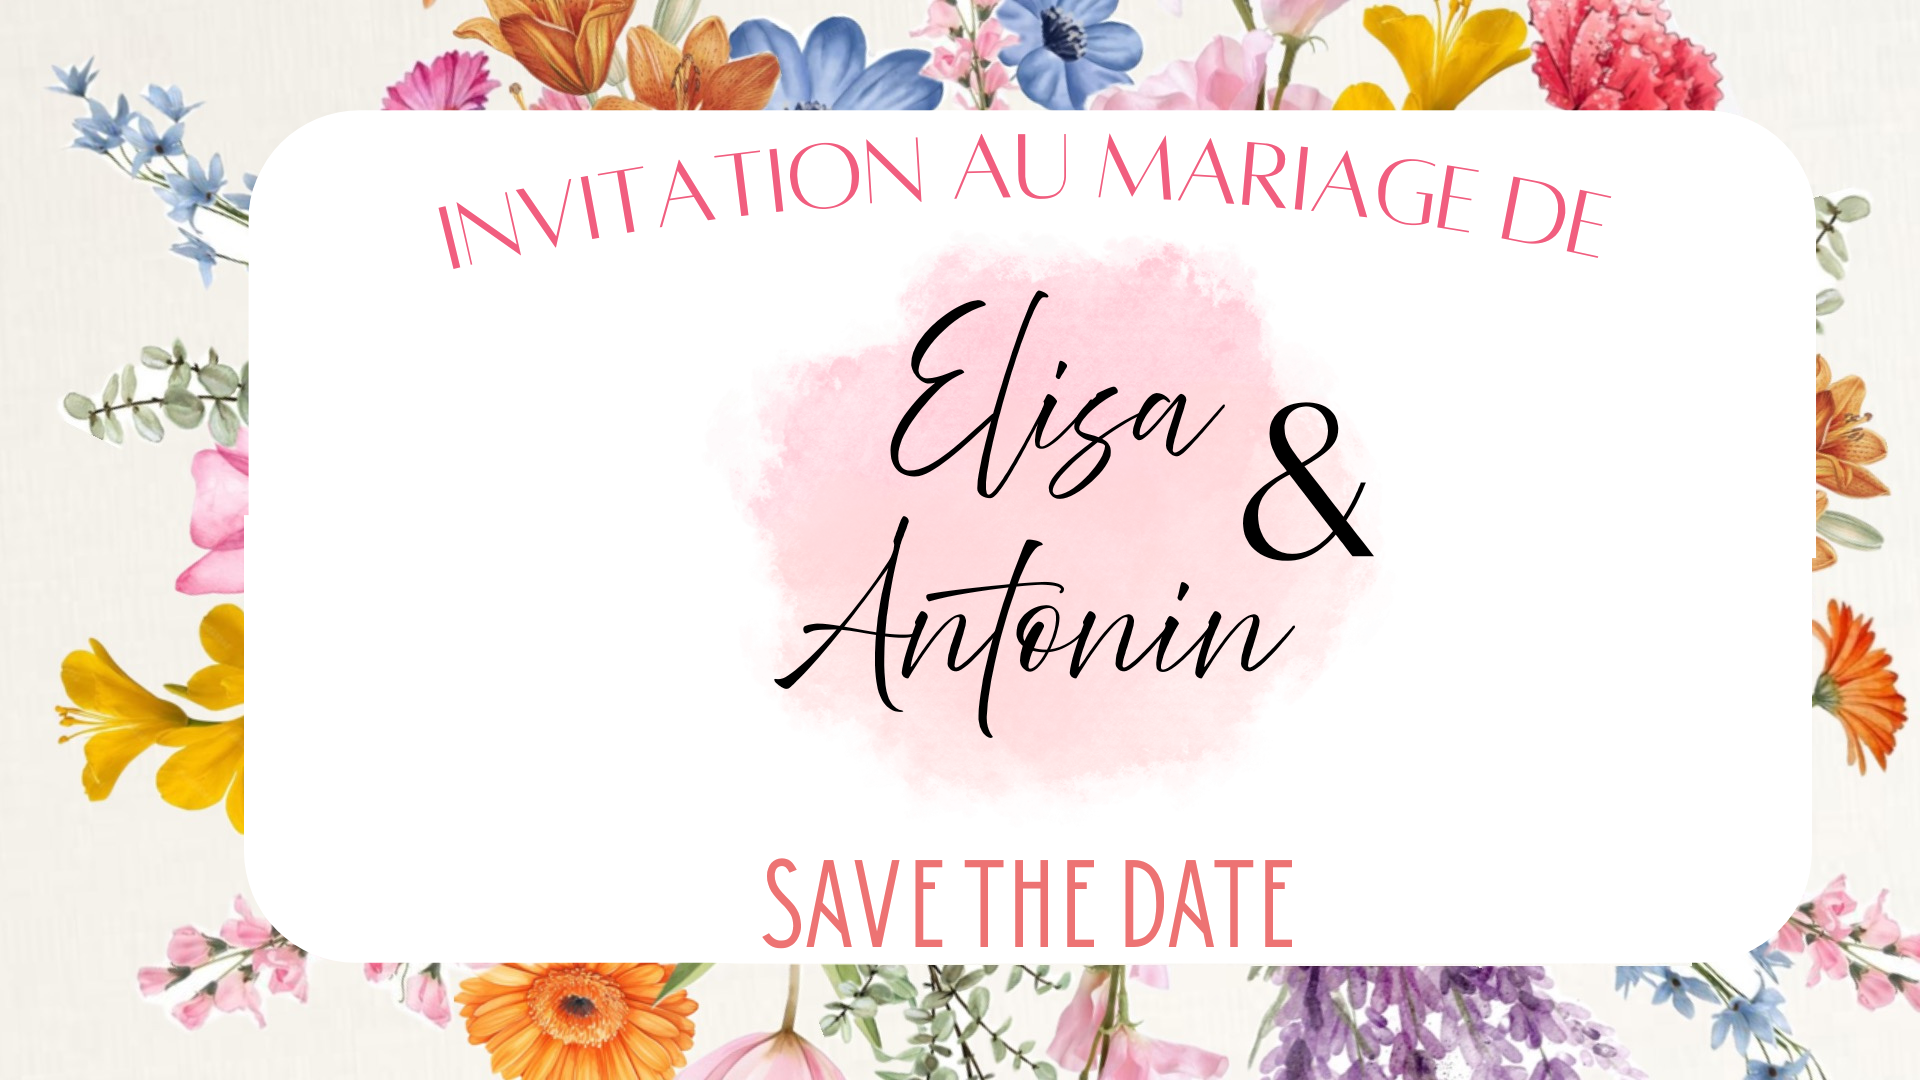
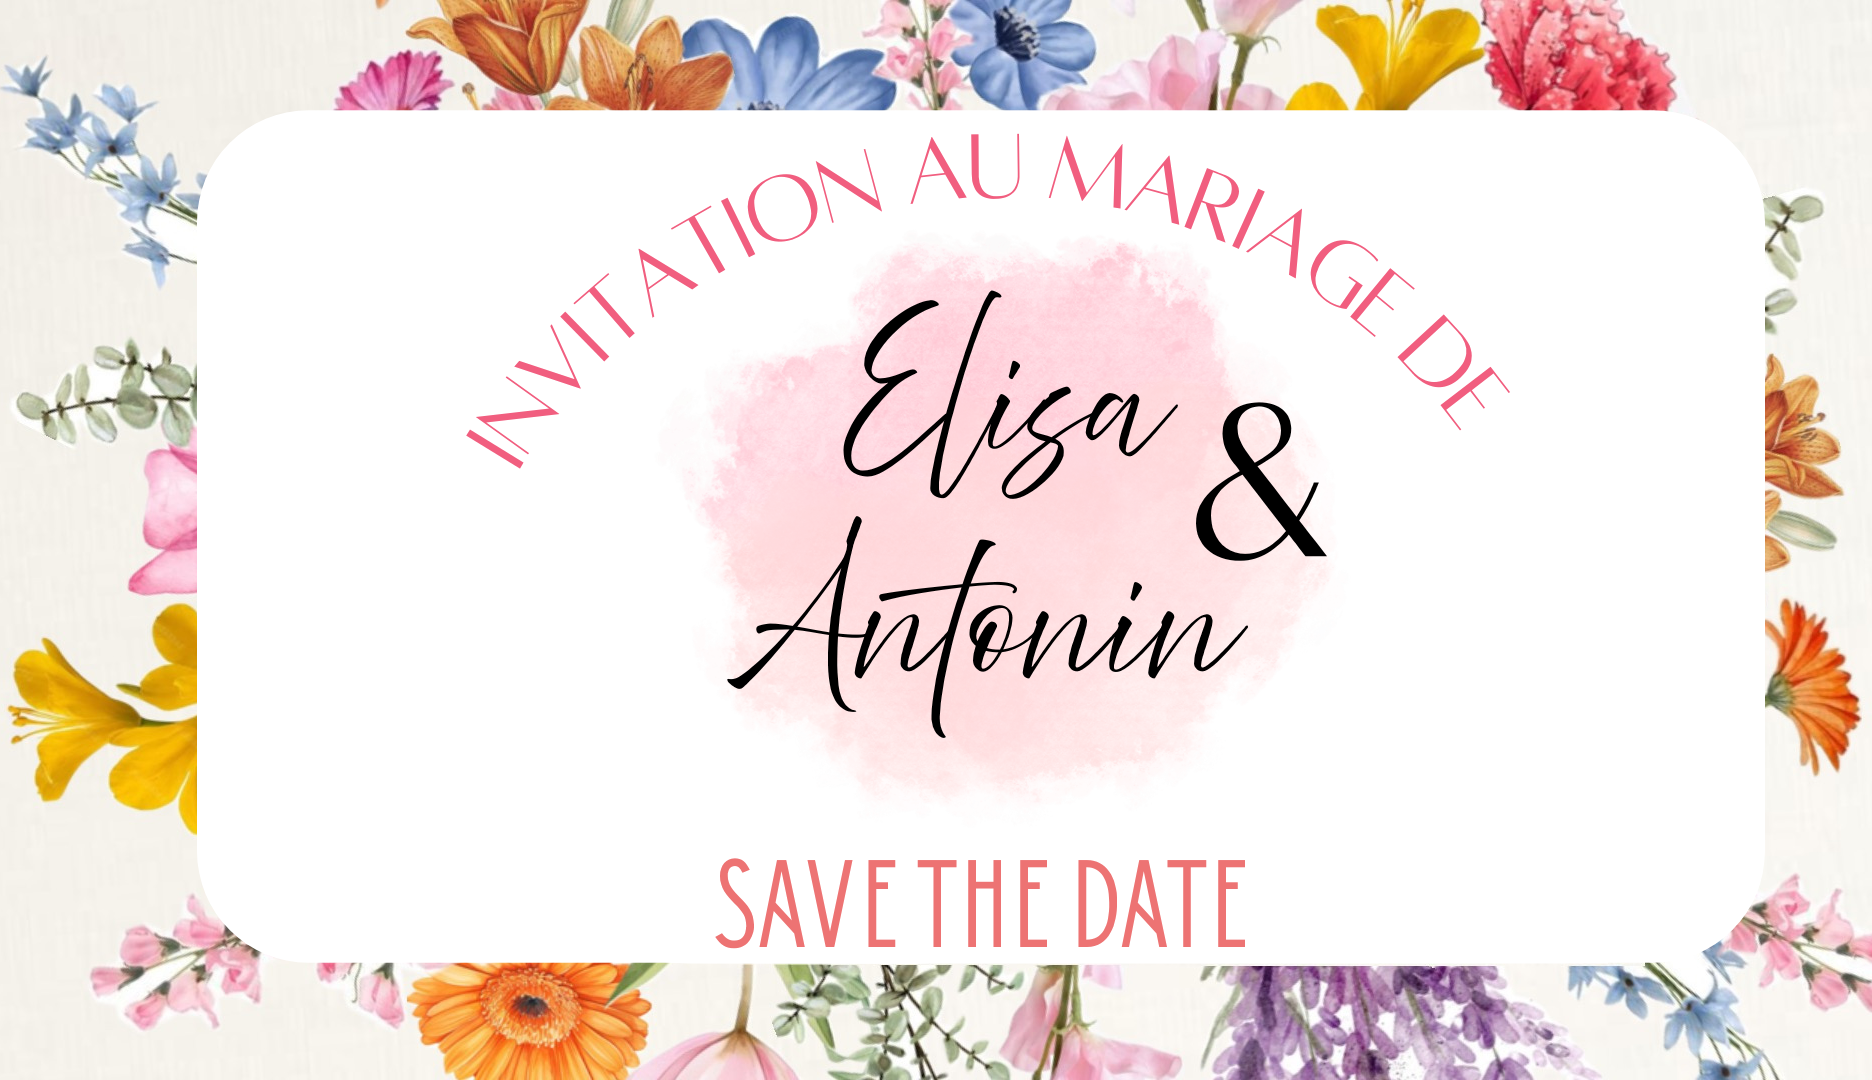
feat<Media Queries>: Update responsive home

diff --git a/src/components/Carousel.jsx b/src/components/Carousel.jsx
@@ -20,8 +20,8 @@ function Carousel({ items = [] }) {
   };
 
   return (
-    <div className="carousel mx-auto max-w-xl">
-      <div className="carousel-image mb-4 overflow-hidden rounded-xl border border-gray-300 h-[350px]">
+    <div className="carousel mx-auto md:max-w-1/2 max-w-xl">
+      <div className="carousel-image mb-4 overflow-hidden rounded-xl border border-gray-300 h-[350px] md:h-[500Px]">
         <img
           src={items[currentIndex].src}
           alt={items[currentIndex].alt}
@@ -33,7 +33,7 @@ function Carousel({ items = [] }) {
         <button
           type="button"
           onClick={prevItem}
-          className="rounded px-4 py-2 text-black relative top-[-200px] h-[350px]"
+          className="rounded px-4 py-2 text-black relative -top-50 h-[350px] md:h-[500Px] md:top-[-250px] "
         >
           <img src="https://cdn-icons-png.flaticon.com/512/271/271228.png" alt="Previous" className="w-4 h-4 inline-block rotate-180" />
         </button>
@@ -45,7 +45,7 @@ function Carousel({ items = [] }) {
         <button
           type="button"
           onClick={nextItem}
-          className="rounded px-4 py-2 text-black relative top-[-200px] h-[350px]"
+          className="rounded px-4 py-2 text-black relative -top-50 h-[350px] md:h-[500Px] md:top-[-250px]"
         >
           <img src="https://cdn-icons-png.flaticon.com/512/271/271228.png" alt="Next" className="w-4 h-4 inline-block" />
         </button>

diff --git a/src/App.jsx b/src/App.jsx
@@ -51,7 +51,7 @@ function App() {
           <h1 className="instrument-serif-regular c-green2">
             Nous nous marions !
           </h1>
-          <p className="instrument-serif-regular c-green2 mx-10! ">
+          <p className="instrument-serif-regular c-green2 mx-10! text-xl">
             Nous avons l'immense joie de vous annoncer notre mariage qui aura
             lieu le
             <span className="underline" id="date">
